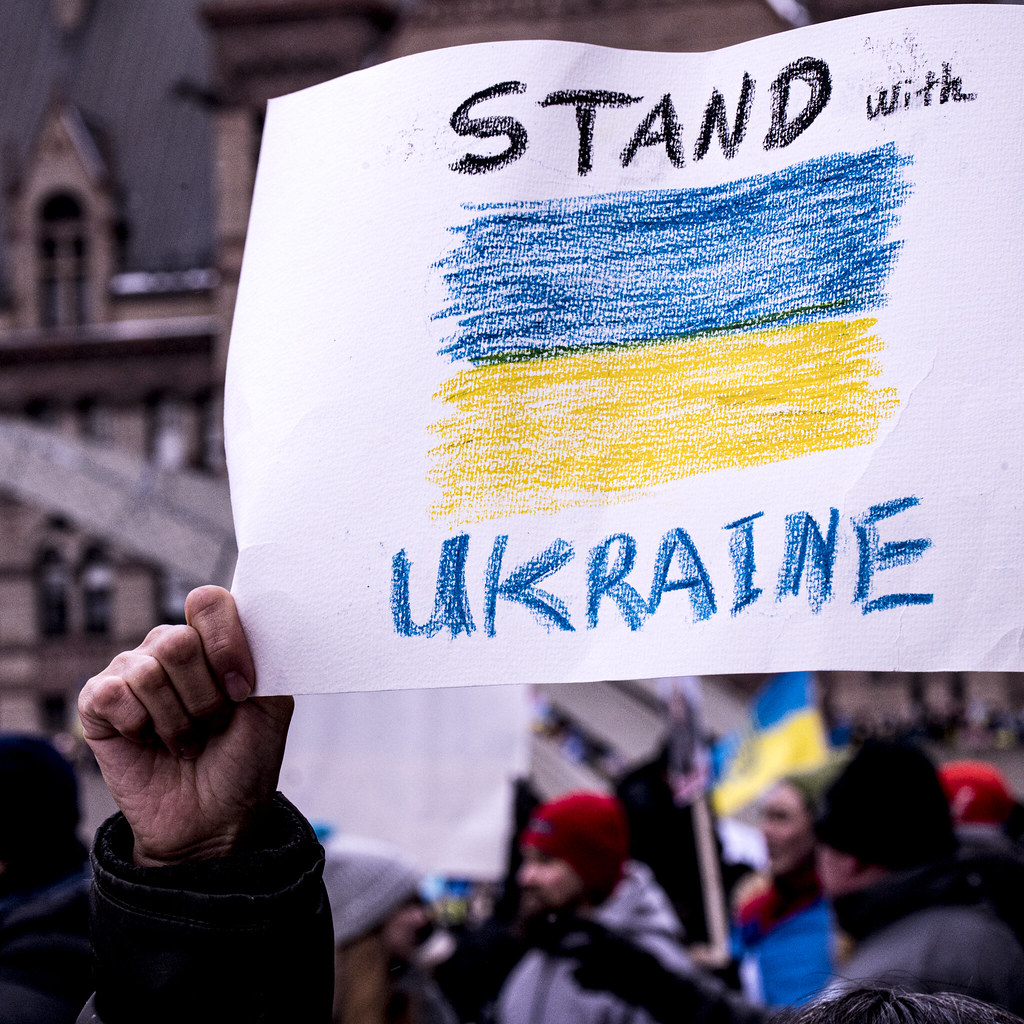
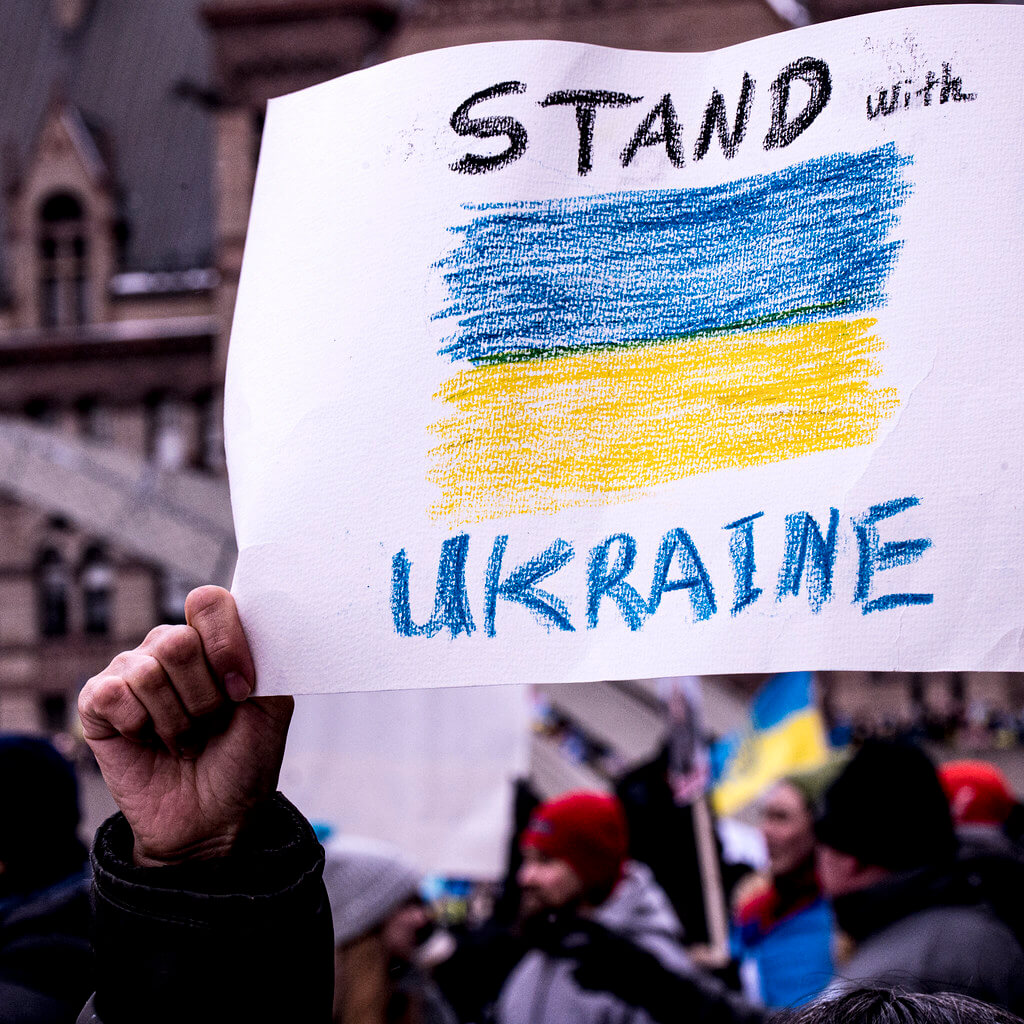
compress images

diff --git a/content/ukraine/index.md b/content/ukraine/index.md
@@ -16,11 +16,12 @@ This post is my voice, my personal view of the current situation in Ukraine. Eve
 
 As of today, the Russian military is leading an all-out war on Ukraine. They have invaded Ukraine on [multiple fronts](https://en.wikipedia.org/wiki/2022_Russian_invasion_of_Ukraine#24_February), and are [bombing cities all over the country](https://en.wikipedia.org/wiki/List_of_military_engagements_during_the_2022_Russian_invasion_of_Ukraine). Russia is using [Belarus as a base and is aided by Belarusian troops](https://kyivindependent.com/national/sources-belarus-to-join-russias-war-on-ukraine-within-hours/).
 
-[Civilian targets](https://www.washingtonpost.com/world/2022/03/01/ukraine-russia-babyn-yar/) all over Ukraine are under fire. People spend days in [makeshift bomb shelters](https://www.npr.org/2022/02/28/1083421199/those-who-havent-fled-ukraine-hunker-down-in-make-shift-bomb-shelters). [Civilians are killed](https://www.theguardian.com/world/2022/mar/02/children-teachers-civilian-casualties-of-the-ukraine-conflict). 
+[Civilian targets](https://www.washingtonpost.com/world/2022/03/01/ukraine-russia-babyn-yar/) all over Ukraine are under fire. People spend days in [makeshift bomb shelters](https://www.npr.org/2022/02/28/1083421199/those-who-havent-fled-ukraine-hunker-down-in-make-shift-bomb-shelters). [Civilians are killed](https://www.theguardian.com/world/2022/mar/02/children-teachers-civilian-casualties-of-the-ukraine-conflict). (You can click on the map below to go to the live updated site)
+
+
+[<img src="map-ua.png" alt="Stand with Ukraine"  width="500px"/>](https://liveuamap.com/)
 
 Even with many [EU borders open to Ukrainian refugees](https://www.washingtonpost.com/world/2022/02/27/ukraine-refugees-photos-videos/), most people cannot flee the country.  
-
-[![map of recent attacks](map-ua.png)](https://liveuamap.com/)
 
 There are Over 40 million people in Ukraine. 40 million people under fire.
 
